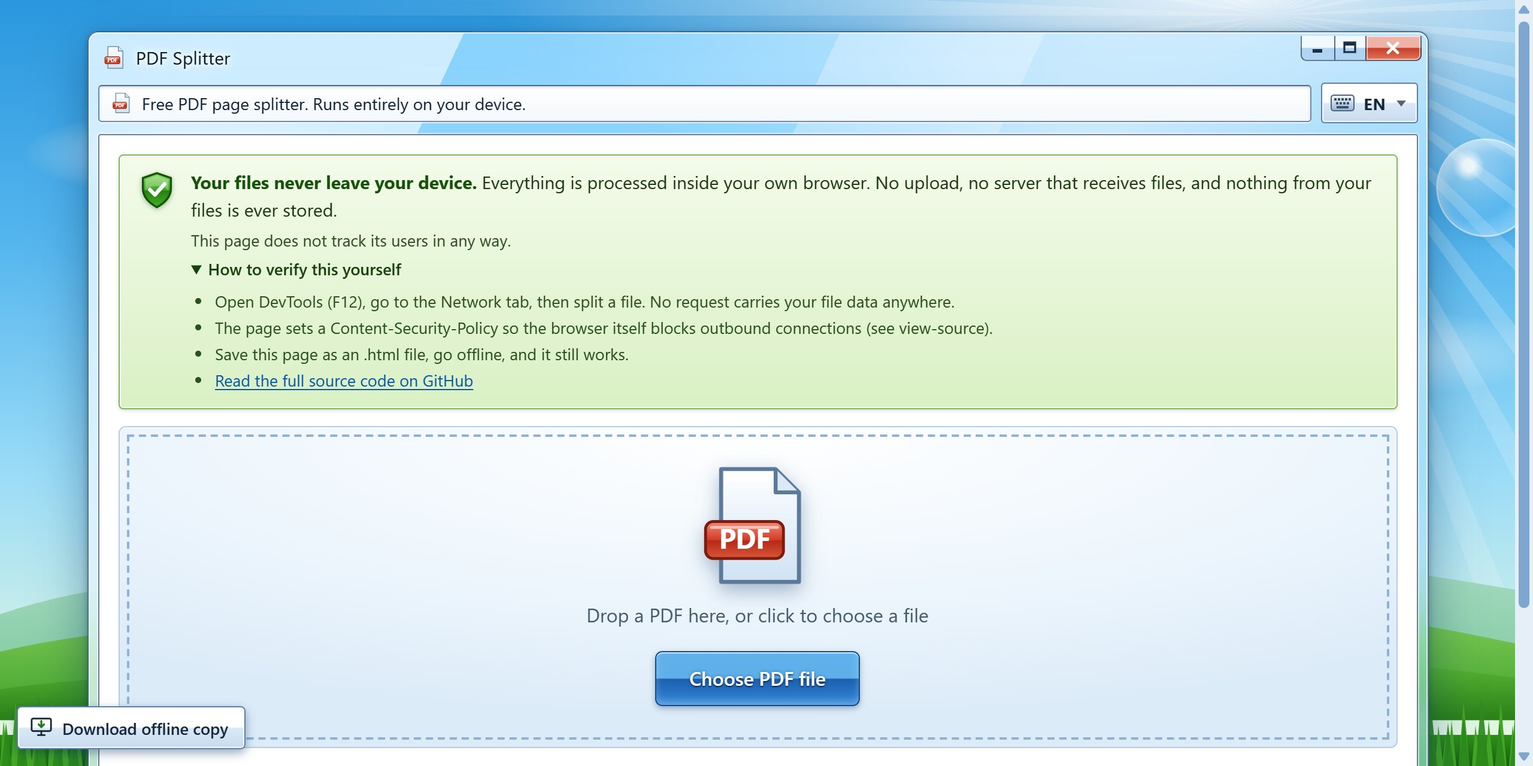
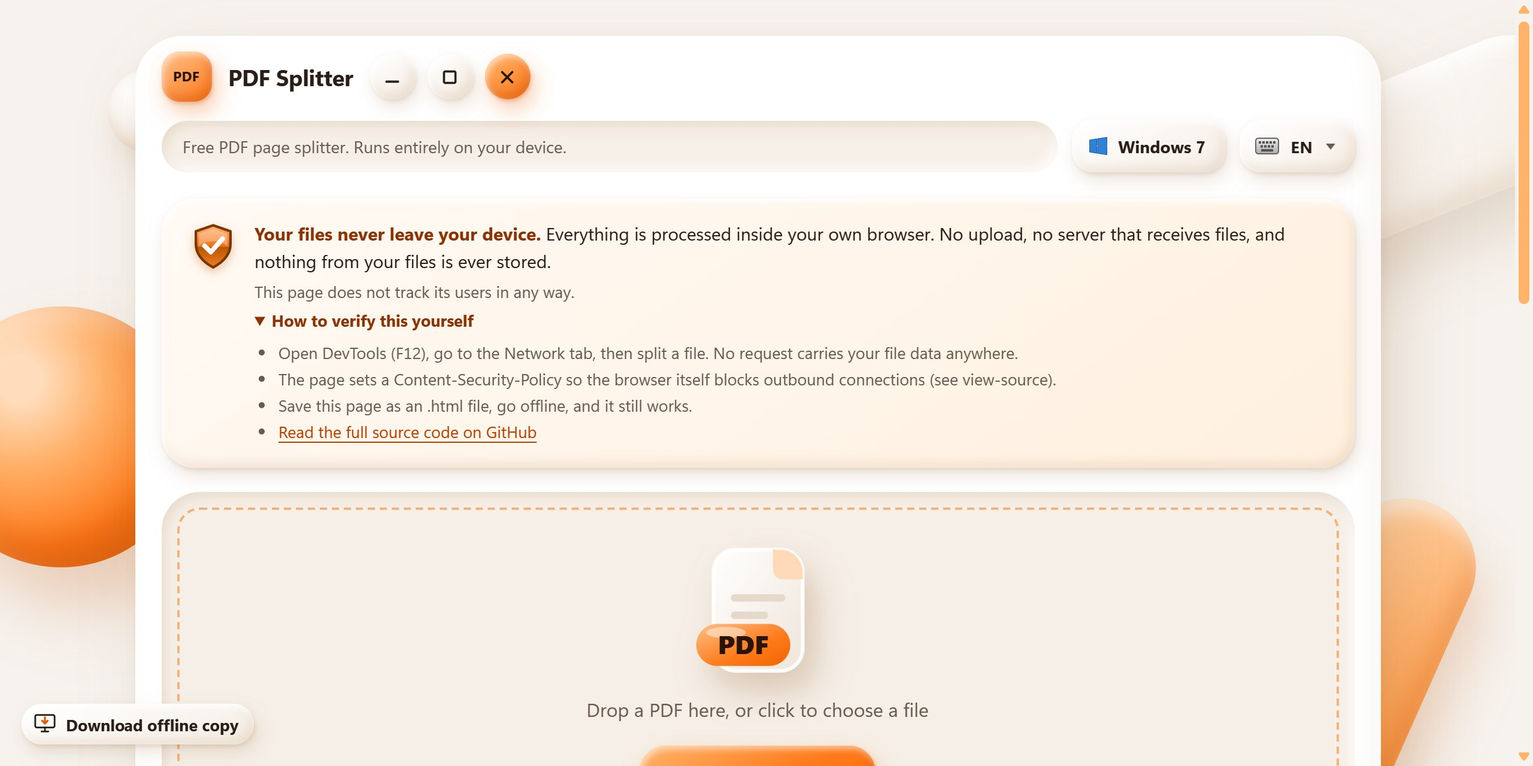
Modern Clay (white + orange claymorphism) as the default look; Windows 7 Aero becomes opt-in via a theme button; language switch keeps the chosen look

diff --git a/template.html b/template.html
@@ -1,10 +1,10 @@
 <!DOCTYPE html>
-<html lang="/*HTMLLANG*/">
+<html lang="/*HTMLLANG*/" data-theme="clay">
 <head>
 <meta charset="utf-8">
 <meta http-equiv="Content-Security-Policy" content="/*CSP*/">
 <meta name="viewport" content="width=device-width, initial-scale=1">
-<meta name="theme-color" content="#3a9be0">
+<meta name="theme-color" content="#f6f2ed">
 <!--HEADTAGS-->
 <style>
   :root {
@@ -390,6 +390,183 @@
   }
 
 
+
+  /* ===================== Theme: Modern Clay (white + orange), opt-in via the Clay button ===================== */
+  .scene-cl { display:none; }
+  .langbar .tb { width:18px; height:18px; flex:none; }
+  html[data-theme="clay"] {
+    --ink:#2a1e16; --ink2:#6a5b50; --edge:rgba(120,80,40,.16);
+    --accent:#ff7a1a; --accent-hi:#ffb36b; --accent-ink:#b84200; --accent-deep:#8a3200;
+    --cream:#fbf6f0; --well:#f6efe7; --line:#f1e8de;
+    --font:ui-rounded,"SF Pro Rounded","Segoe UI Variable Text","Segoe UI","Leelawadee UI","Noto Sans Thai",system-ui,sans-serif;
+    --ease:cubic-bezier(.16,1,.3,1);
+    --sh-raise:inset 2px 3px 5px rgba(255,255,255,.95), inset -3px -5px 9px rgba(190,140,95,.18), 3px 7px 14px rgba(150,105,60,.18), 1px 2px 3px rgba(150,105,60,.14);
+    --sh-raise-hi:inset 2px 3px 5px #fff, inset -3px -5px 9px rgba(190,140,95,.16), 5px 12px 22px rgba(150,105,60,.22), 1px 3px 5px rgba(150,105,60,.14);
+    --sh-press:inset 4px 5px 10px rgba(160,110,65,.28), inset -2px -3px 6px rgba(255,255,255,.85);
+    --sh-well:inset 3px 4px 9px rgba(160,110,65,.17), inset -3px -4px 8px rgba(255,255,255,.95);
+    --sh-orange:inset 2px 3px 5px rgba(255,255,255,.55), inset -3px -5px 9px rgba(185,65,0,.35), 4px 9px 18px rgba(235,100,10,.32), 1px 2px 3px rgba(185,65,0,.25);
+    --sh-orange-hi:inset 2px 3px 5px rgba(255,255,255,.6), inset -3px -5px 9px rgba(185,65,0,.3), 6px 14px 24px rgba(235,100,10,.38), 1px 3px 5px rgba(185,65,0,.25);
+    --sh-orange-press:inset 4px 5px 10px rgba(160,55,0,.45), inset -2px -3px 6px rgba(255,190,130,.4);
+    --sh-card:inset 4px 6px 12px #fff, inset -6px -8px 18px rgba(190,150,110,.10), 16px 26px 56px rgba(150,105,60,.20), 3px 5px 10px rgba(150,105,60,.10);
+    background:#f6f2ed; scrollbar-color:#ffb36b #f6f2ed;
+  }
+  html[data-theme="clay"] body { font-variant-numeric:tabular-nums; }
+  html[data-theme="clay"] ::selection { background:#ff7a1a; color:#2a1408; }
+  html[data-theme="clay"] input { caret-color:#ff7a1a; }
+  html[data-theme="clay"] a { color:var(--accent-ink); text-underline-offset:3px; }
+  html[data-theme="clay"] :is(button,input,summary,.pg):focus-visible { outline:3px solid var(--accent); outline-offset:3px; box-shadow:var(--fs, none); }
+  html[data-theme="clay"] .scene { display:none; }
+
+  /* soft clay props behind the window (static: motion is reserved for state changes) */
+  html[data-theme="clay"] .scene-cl { display:block; position:fixed; inset:0; z-index:-1; overflow:hidden; pointer-events:none; }
+  .scene-cl .cb { position:absolute; display:block; }
+  .scene-cl .cb1 { width:clamp(150px,17vw,250px); aspect-ratio:1; left:calc(-1 * clamp(36px,4.5vw,80px)); top:40%; border-radius:50%;
+    background:radial-gradient(circle at 34% 28%, #ffdcbb 0 9%, #ffb068 34%, #ff7a1a 66%, #e86200 100%);
+    box-shadow:inset -14px -18px 30px rgba(170,60,0,.34), inset 10px 12px 22px rgba(255,255,255,.45), 22px 34px 50px rgba(200,100,30,.26); }
+  .scene-cl .cb2 { width:clamp(200px,24vw,340px); height:clamp(82px,9.5vw,136px); right:calc(-1 * clamp(40px,5vw,90px)); top:10%; border-radius:999px; rotate:-22deg;
+    background:linear-gradient(145deg,#fff,#f3ebe2);
+    box-shadow:inset 8px 10px 16px #fff, inset -10px -12px 22px rgba(190,150,110,.25), 20px 30px 50px rgba(150,105,60,.20); }
+  .scene-cl .cb3 { width:clamp(86px,9vw,132px); height:clamp(190px,21vw,300px); right:5vw; bottom:-6%; border-radius:999px; rotate:24deg;
+    background:linear-gradient(145deg,#ffd2a3,#ffa152 70%,#ff8e33);
+    box-shadow:inset 7px 9px 14px rgba(255,255,255,.55), inset -9px -12px 20px rgba(200,80,0,.28), 18px 28px 44px rgba(200,100,30,.24); }
+  .scene-cl .cb4 { width:clamp(54px,5.5vw,84px); aspect-ratio:1; left:7vw; top:9%; border-radius:50%;
+    background:radial-gradient(circle at 34% 28%, #fff 0 12%, #f6eee5 60%, #eadccd 100%);
+    box-shadow:inset -6px -8px 14px rgba(190,150,110,.28), 10px 16px 26px rgba(150,105,60,.2); }
+  @media (max-width:899px) { .scene-cl .cb2, .scene-cl .cb3 { display:none; } .scene-cl .cb1 { opacity:.9; } }
+
+  /* window */
+  html[data-theme="clay"] .win { max-width:1040px; margin:30px auto 100px; padding:0; border:0; border-radius:40px; background:#fff;
+    -webkit-backdrop-filter:none; backdrop-filter:none; box-shadow:var(--sh-card); }
+  html[data-theme="clay"] .titlebar { height:68px; gap:14px; padding:0 20px 0 22px; border-radius:40px 40px 0 0; }
+  html[data-theme="clay"] .titlebar svg.appico { display:none; }
+  html[data-theme="clay"] .titlebar::before { content:"PDF"; display:grid; place-items:center; width:42px; height:42px; flex:none; border-radius:15px;
+    font-size:11.5px; font-weight:800; letter-spacing:.2px; color:#2a1408; background:linear-gradient(145deg,#ffc089,#ff7a1a); box-shadow:var(--sh-orange); }
+  html[data-theme="clay"] h1 { font-size:19px; font-weight:800; letter-spacing:-.01em; color:var(--ink); text-shadow:none; }
+  html[data-theme="clay"] .caps { align-self:center; margin:0; gap:10px; }
+  html[data-theme="clay"] .caps button { width:38px; height:38px; min-height:0; margin:0; padding:0; border:0; border-radius:50%; color:var(--ink);
+    background:linear-gradient(145deg,#fff,#f4ede5); box-shadow:var(--sh-raise); --fs:var(--sh-raise);
+    transition:transform .18s var(--ease), box-shadow .18s var(--ease); }
+  html[data-theme="clay"] .caps button::after { content:none; }
+  html[data-theme="clay"] .caps .ia, html[data-theme="clay"] .caps .it { display:none; }
+  html[data-theme="clay"] .caps .iu { display:block; width:17px; height:17px; }
+  html[data-theme="clay"] .caps .c3 { color:#2a1408; background:linear-gradient(145deg,#ffb36b,#ff7a1a); box-shadow:var(--sh-orange); --fs:var(--sh-orange); }
+  html[data-theme="clay"] .caps button:hover:not(:disabled) { transform:translateY(-2px); background:linear-gradient(145deg,#fff,#fbf4ec); box-shadow:var(--sh-raise-hi); }
+  html[data-theme="clay"] .caps .c3:hover:not(:disabled) { background:linear-gradient(145deg,#ffc089,#ff8a33); box-shadow:var(--sh-orange-hi); }
+  html[data-theme="clay"] .caps button:active:not(:disabled) { transform:translateY(1px); box-shadow:var(--sh-press); }
+  html[data-theme="clay"] .caps .c3:active:not(:disabled) { box-shadow:var(--sh-orange-press); }
+
+  /* address row: tagline well + the two selector buttons */
+  html[data-theme="clay"] .addr { gap:12px; padding:2px 22px 16px; }
+  html[data-theme="clay"] .abar { padding:11px 18px; border:0; border-radius:22px; background:var(--well); box-shadow:var(--sh-well); }
+  html[data-theme="clay"] .abar svg { display:none; }
+  html[data-theme="clay"] .abar .hint { color:var(--ink2); font-size:14px; }
+  html[data-theme="clay"] .client { background:transparent; border:0; border-radius:0 0 40px 40px; box-shadow:none; }
+
+  /* buttons */
+  html[data-theme="clay"] button { min-height:44px; padding:8px 20px; border:0; border-radius:18px; color:var(--ink); font-weight:600; text-shadow:none;
+    background:linear-gradient(145deg,#fff,#f5eee6); box-shadow:var(--sh-raise); --fs:var(--sh-raise);
+    transition:transform .18s var(--ease), box-shadow .18s var(--ease), background .18s ease; }
+  html[data-theme="clay"] button:hover:not(:disabled) { transform:translateY(-2px); border:0; background:linear-gradient(145deg,#fff,#fbf4ec); box-shadow:var(--sh-raise-hi); }
+  html[data-theme="clay"] button:active:not(:disabled) { transform:translateY(1px); border:0; background:linear-gradient(145deg,#f7f0e8,#f3ebe2); box-shadow:var(--sh-press); }
+  html[data-theme="clay"] button:disabled, html[data-theme="clay"] button.primary:disabled, html[data-theme="clay"] button.alt:disabled {
+    cursor:not-allowed; transform:none; color:#9a8b7e; text-shadow:none; background:#f1ebe4; box-shadow:inset 2px 2px 5px rgba(160,110,65,.12), inset -2px -2px 4px rgba(255,255,255,.8); }
+  html[data-theme="clay"] button.primary { color:#2a1408; font-weight:800; background:linear-gradient(145deg,#ffb36b,#ff7a1a 60%,#ff6d0a); box-shadow:var(--sh-orange); --fs:var(--sh-orange); }
+  html[data-theme="clay"] button.primary:hover:not(:disabled) { background:linear-gradient(145deg,#ffc089,#ff8a33 60%,#ff7a1a); box-shadow:var(--sh-orange-hi); }
+  html[data-theme="clay"] button.primary:active:not(:disabled) { background:linear-gradient(145deg,#ff8a33,#ff6d0a); box-shadow:var(--sh-orange-press); }
+  html[data-theme="clay"] button.alt { color:var(--accent-deep); font-weight:700; background:linear-gradient(145deg,#fff4e8,#ffe0c2); box-shadow:var(--sh-raise); }
+  html[data-theme="clay"] button.alt:hover:not(:disabled) { background:linear-gradient(145deg,#fff8f0,#ffe7cf); box-shadow:var(--sh-raise-hi); }
+  html[data-theme="clay"] button.alt:active:not(:disabled) { background:linear-gradient(145deg,#ffe3c8,#ffd7b0); box-shadow:var(--sh-press); }
+  html[data-theme="clay"] button.big { min-height:56px; padding:12px 36px; border-radius:22px; font-size:17px; }
+  html[data-theme="clay"] .langbar { gap:8px; padding:8px 16px 8px 13px; color:var(--ink); }
+  html[data-theme="clay"] .langbar .kb { filter:grayscale(1) contrast(.9); }
+  html[data-theme="clay"] .langbar .lcode { font-size:13.5px; letter-spacing:.4px; }
+
+  /* privacy notice: warm cream pillow, shield tinted orange */
+  html[data-theme="clay"] .privacy { gap:4px 14px; margin:6px 22px 20px; padding:18px 22px; color:var(--ink); border:0; border-radius:28px;
+    background:linear-gradient(145deg,#fffaf4,#fff0df); box-shadow:var(--sh-raise); }
+  html[data-theme="clay"] .privacy > svg { width:42px; height:42px; filter:hue-rotate(-78deg) saturate(1.2) drop-shadow(0 3px 4px rgba(200,90,0,.35)); }
+  html[data-theme="clay"] .privacy b { color:var(--accent-deep); }
+  html[data-theme="clay"] .privacy .hint, html[data-theme="clay"] .privacy details { color:var(--ink2); }
+  html[data-theme="clay"] .privacy summary { color:var(--accent-deep); font-weight:700; }
+
+  /* drop zone: a pressed-in well with a dashed ring */
+  html[data-theme="clay"] #drop { margin:0 22px 28px; padding:40px 22px 44px; border:0; border-radius:32px; outline:2px dashed #f2b27a; outline-offset:-15px;
+    background:var(--well); box-shadow:var(--sh-well); transition:background .18s ease, outline-color .18s ease; }
+  html[data-theme="clay"] #drop.over { background:#fff1e3; outline-color:var(--accent); box-shadow:var(--sh-well); }
+  html[data-theme="clay"] #drop .big-ico { width:112px; height:112px; filter:hue-rotate(-8deg) saturate(.95) drop-shadow(10px 16px 14px rgba(150,105,60,.3)); }
+  html[data-theme="clay"] #drop p { color:var(--ink2); font-size:16px; }
+
+  /* command bar */
+  html[data-theme="clay"] .tools { background:#fff; border-top:0; border-bottom:1px solid var(--line); box-shadow:0 12px 20px -16px rgba(150,105,60,.45); }
+  html[data-theme="clay"] .bar { gap:10px; padding:14px 22px; }
+  html[data-theme="clay"] .bar + .bar { border-top:1px solid var(--line); }
+  html[data-theme="clay"] .bar b { color:var(--ink); }
+  html[data-theme="clay"] .bar input[type=text] { width:220px; min-height:44px; padding:8px 18px; border:0; border-radius:18px; color:var(--ink); background:var(--well);
+    box-shadow:var(--sh-well); --fs:var(--sh-well); }
+  html[data-theme="clay"] .bar input[type=text]:focus { border:0; box-shadow:var(--sh-well); }
+  html[data-theme="clay"] #msg { color:var(--accent-ink); }
+  html[data-theme="clay"] .hint { color:var(--ink2); }
+  html[data-theme="clay"] .howto { padding:14px 22px 4px; }
+
+  /* thumbnails: soft tiles, selected = orange-ringed and warm */
+  html[data-theme="clay"] #grid { gap:14px; padding:12px 22px 28px; }
+  html[data-theme="clay"] .pg { --pgs:none; --fs:var(--pgs); padding:12px 12px 10px; border:0; border-radius:24px; box-shadow:var(--pgs);
+    transition:transform .18s var(--ease), background .18s ease, box-shadow .18s var(--ease); }
+  html[data-theme="clay"] .pg:hover { --pgs:var(--sh-raise); background:#fffaf5; border:0; transform:translateY(-2px); }
+  html[data-theme="clay"] .pg.sel { --pgs:inset 0 0 0 3px var(--accent), 4px 9px 16px rgba(235,100,10,.22); background:linear-gradient(145deg,#fff5ea,#ffe6cd); border:0; }
+  html[data-theme="clay"] .pg canvas { border:0; border-radius:14px; background:#fff; box-shadow:0 7px 16px rgba(150,105,60,.28), 0 1px 3px rgba(150,105,60,.2); }
+  html[data-theme="clay"] .pg .n { color:var(--ink); margin-top:10px; }
+  html[data-theme="clay"] .pg.sel .n { color:var(--accent-deep); font-weight:700; }
+  html[data-theme="clay"] .pg .ck { top:19px; right:19px; filter:hue-rotate(176deg) saturate(1.15) drop-shadow(0 3px 4px rgba(170,70,0,.4)); }
+  html[data-theme="clay"] .status { margin-top:0; padding:16px 22px; color:var(--ink2); background:var(--cream); border-top:1px solid var(--line); border-radius:0 0 40px 40px; }
+
+  /* offline download button, about section, easter-egg tooltip */
+  html[data-theme="clay"] .dl { left:18px; bottom:18px; color:var(--ink); font-weight:700; border:0; border-radius:20px; background:linear-gradient(145deg,#fff,#f5eee6); box-shadow:var(--sh-raise);
+    transition:transform .18s var(--ease), box-shadow .18s var(--ease); }
+  html[data-theme="clay"] .dl:hover { transform:translateY(-2px); background:linear-gradient(145deg,#fff,#fbf4ec); border:0; box-shadow:var(--sh-raise-hi); }
+  html[data-theme="clay"] .dl:active { transform:translateY(1px); box-shadow:var(--sh-press); }
+  html[data-theme="clay"] .dl svg path:last-child { stroke:#e05a00; }
+  html[data-theme="clay"] .about { max-width:1040px; color:var(--ink); border:0; border-radius:32px; background:#fff; box-shadow:var(--sh-card); }
+  html[data-theme="clay"] .about a { color:var(--accent-ink); }
+  html[data-theme="clay"] .about code { color:var(--accent-deep); border:0; border-radius:8px; background:#fff0df; }
+  html[data-theme="clay"] .about details { border:0; border-radius:20px; background:var(--well); box-shadow:var(--sh-well); }
+  html[data-theme="clay"] .about summary { color:var(--ink); }
+  html[data-theme="clay"] .nojs { color:var(--ink); background:#fff; border:0; border-radius:20px; box-shadow:var(--sh-raise); }
+  html[data-theme="clay"] .oops-tip { color:var(--ink); border:0; border-radius:16px; background:#fff; box-shadow:var(--sh-raise-hi); }
+  html[data-theme="clay"] .oops-tip::before { background:#fff; border:0; }
+  html[data-theme="tui"] .themebtn .tlabel { display:inline; }
+
+  @media (max-width:699px) {
+    html[data-theme="clay"] .win { margin:10px 8px 96px; border-radius:30px; }
+    html[data-theme="clay"] .titlebar { height:60px; padding:0 14px 0 16px; border-radius:30px 30px 0 0; gap:10px; }
+    html[data-theme="clay"] .titlebar::before { width:38px; height:38px; border-radius:13px; font-size:10.5px; }
+    html[data-theme="clay"] h1 { font-size:17px; }
+    html[data-theme="clay"] .caps { gap:7px; }
+    html[data-theme="clay"] .caps button { width:36px; height:36px; }
+    html[data-theme="clay"] .addr { padding:0 14px 14px; flex-wrap:wrap; }
+    html[data-theme="clay"] .abar { flex:1 1 100%; }
+    html[data-theme="clay"] .privacy { margin:4px 14px 16px; padding:14px 16px; border-radius:24px; }
+    html[data-theme="clay"] #drop { margin:0 14px 22px; padding:28px 14px 32px; border-radius:26px; outline-offset:-11px; }
+    html[data-theme="clay"] #drop .big-clay { width:96px; height:96px; }
+    html[data-theme="clay"] .bar { padding:12px 14px; }
+    html[data-theme="clay"] .bar input[type=text] { flex:1 1 100%; width:auto; }
+    html[data-theme="clay"] button { min-height:44px; }
+    html[data-theme="clay"] .howto { padding:10px 14px 4px; }
+    html[data-theme="clay"] #grid { gap:8px; padding:8px 12px 20px; }
+    html[data-theme="clay"] .pg { padding:10px 10px 8px; border-radius:20px; }
+    html[data-theme="clay"] .status { border-radius:0 0 30px 30px; padding:14px 16px; }
+    html[data-theme="clay"] .client { border-radius:0 0 30px 30px; }
+    html[data-theme="clay"] .dl { left:12px; bottom:12px; min-height:44px; }
+    html[data-theme="clay"] .about { margin:0 8px 110px; padding:16px 16px 18px; border-radius:26px; }
+  }
+
+
+  .big-clay { display:none; }
+  html[data-theme="clay"] #drop .big-ico { display:none; }
+  html[data-theme="clay"] #drop .big-clay { display:block; width:124px; height:124px; margin:0 auto; filter:drop-shadow(10px 16px 14px rgba(150,105,60,.3)); }
+  .themebtn[data-to="aero"] .tb-clay, .themebtn[data-to="clay"] .tb-win { display:none; }
+  .themebtn .tlabel { font-weight:700; }
+
   /* ===================== About / FAQ (static, crawler-visible) ===================== */
   .about { max-width:860px; margin:0 auto 110px; padding:20px 24px 22px; color:var(--ink); font-size:14.5px; line-height:1.65;
     border:1px solid rgba(10,40,70,.45); border-radius:7px; background:rgba(255,255,255,.88);
@@ -575,6 +752,7 @@
     <ellipse cx="-58" cy="-92" rx="74" ry="34" fill="#fff" opacity=".2" transform="rotate(-24 -58 -92)"/>
   </g>
 </svg></div>
+<div class="scene-cl" aria-hidden="true"><i class="cb cb1"></i><i class="cb cb2"></i><i class="cb cb3"></i><i class="cb cb4"></i></div>
 <div class="ub-shell" aria-hidden="true">
   <div class="ub-panel">
     <div>Activities</div>
@@ -607,6 +785,7 @@
   </div>
   <div class="addr">
     <div class="abar"><svg aria-hidden="true" focusable="false"><use href="#i-pdf"/></svg><span class="hint" data-i18n="tagline"></span></div>
+    <button id="bTheme" type="button" class="langbar themebtn" data-to="aero"><svg class="tb tb-clay" viewBox="0 0 20 20" aria-hidden="true" focusable="false"><defs><radialGradient id="tbg" cx=".34" cy=".28" r=".8"><stop offset="0" stop-color="#ffdcbb"/><stop offset=".45" stop-color="#ffa152"/><stop offset="1" stop-color="#e86200"/></radialGradient></defs><circle cx="10" cy="10" r="8.5" fill="url(#tbg)" stroke="#b84200" stroke-width="1"/><ellipse cx="7.2" cy="6.4" rx="3" ry="1.8" fill="#fff" opacity=".55" transform="rotate(-28 7.2 6.4)"/></svg><svg class="tb tb-win" viewBox="0 0 20 20" aria-hidden="true" focusable="false"><path d="M2 4.4l6.600-1v6.200H2zM9.400 3.200L18 2v7.600H9.400zM2 10.400h6.600v6.200L2 15.600zM9.400 10.400H18V18l-8.600-1.200z" fill="#2d84d6" stroke="#1c5fb0" stroke-width=".6" stroke-linejoin="round"/></svg><span class="tlabel"></span></button>
     <button id="lang" type="button" class="langbar" title="Language / ภาษา" aria-label="Language / ภาษา"><svg class="kb" viewBox="0 0 20 14" aria-hidden="true" focusable="false"><defs><linearGradient id="kbg" x1="0" y1="0" x2="0" y2="1"><stop offset="0" stop-color="#f7fafd"/><stop offset="1" stop-color="#9db5cf"/></linearGradient></defs><rect x=".5" y=".5" width="19" height="13" rx="2.200" fill="url(#kbg)" stroke="#4a6585"/><g fill="#33506f"><rect x="3" y="3" width="2" height="2"/><rect x="6" y="3" width="2" height="2"/><rect x="9" y="3" width="2" height="2"/><rect x="12" y="3" width="2" height="2"/><rect x="15" y="3" width="2" height="2"/><rect x="4.500" y="6.300" width="2" height="2"/><rect x="7.500" y="6.300" width="2" height="2"/><rect x="10.500" y="6.300" width="2" height="2"/><rect x="13.500" y="6.300" width="2" height="2"/><rect x="5" y="9.600" width="10" height="2"/></g></svg><span class="lcode" id="lcode">EN</span><svg class="dd" viewBox="0 0 8 5" aria-hidden="true" focusable="false"><path d="M0 0h8L4 5z" fill="currentColor"/></svg></button>
   </div>
 
@@ -628,6 +807,7 @@
 
   <div id="drop">
     <svg class="big-ico" aria-hidden="true" focusable="false"><use href="#i-pdf"/></svg>
+    <svg class="big-clay" viewBox="0 0 120 120" aria-hidden="true" focusable="false"><defs><linearGradient id="cg1" x1="0" y1="0" x2="1" y2="1"><stop offset="0" stop-color="#ffffff"/><stop offset="1" stop-color="#efe5da"/></linearGradient><linearGradient id="cg2" x1="0" y1="0" x2="1" y2="1"><stop offset="0" stop-color="#ffc089"/><stop offset=".6" stop-color="#ff7a1a"/><stop offset="1" stop-color="#f06400"/></linearGradient></defs><rect x="24" y="8" width="72" height="98" rx="18" fill="url(#cg1)"/><rect x="24" y="8" width="72" height="98" rx="18" fill="none" stroke="#fff" stroke-width="3" opacity=".9"/><path d="M72 8h6a18 18 0 0 1 18 18v6H80a8 8 0 0 1-8-8z" fill="#ffd9b8"/><rect x="38" y="44" width="44" height="6" rx="3" fill="#e6d9cb"/><rect x="38" y="58" width="30" height="6" rx="3" fill="#e6d9cb"/><rect x="10" y="68" width="76" height="34" rx="17" fill="url(#cg2)"/><ellipse cx="34" cy="75" rx="16" ry="4.500" fill="#fff" opacity=".45"/><text x="48" y="92.500" text-anchor="middle" font-family="Segoe UI,Arial,sans-serif" font-size="21" font-weight="800" fill="#2a1408">PDF</text></svg>
     <pre class="ascii" aria-hidden="true">+----------+
 | %PDF-1.7 |
 | ######## |
@@ -694,7 +874,8 @@
       close: 'ปิด',
       dl: 'ดาวน์โหลดไปใช้ออฟไลน์',
       dl_tip: 'ไฟล์เดียว ไม่มีโค้ดนับผู้เข้าชม และบล็อกการเชื่อมต่อเน็ตทุกชนิด เปิดใช้ได้แม้ไม่ต่ออินเทอร์เน็ต',
-      m_tui: 'โหมดเทอร์มินัล (TUI)', m_ub: 'โหมด Ubuntu', m_back: 'กลับเป็นหน้าตา Windows 7',
+      clay_btn: 'Clay', m_clay: 'เปลี่ยนเป็นหน้าตา Clay (ขาวส้ม)', win_btn: 'Windows 7', m_win: 'เปลี่ยนเป็นหน้าตา Windows 7',
+      m_tui: 'โหมดเทอร์มินัล (TUI)', m_ub: 'โหมด Ubuntu', m_back: 'กลับหน้าตาเริ่มต้น (Clay)',
       priv_head: 'ไฟล์ของคุณไม่ออกจากเครื่อง',
       priv_body: 'ทุกอย่างประมวลผลในเบราว์เซอร์ของคุณเท่านั้น ไม่มีการอัปโหลด ไม่มีเซิร์ฟเวอร์รับไฟล์ และไม่เก็บข้อมูลจากไฟล์ของคุณเด็ดขาด',
       priv_counter: 'สิ่งเดียวที่นับคือจำนวนผู้เข้าชมหน้านี้แบบไม่ระบุตัวตน (GoatCounter: ไม่ใช้ cookie ไม่เก็บ IP เต็ม ไม่เห็นชื่อไฟล์หรือเนื้อหาไฟล์) และจะไม่นับถ้าเบราว์เซอร์ของคุณเปิด Do Not Track',
@@ -722,7 +903,8 @@
       close: 'Close',
       dl: 'Download offline copy',
       dl_tip: 'One file, no visit counter, every network connection blocked. Works with the internet switched off.',
-      m_tui: 'Terminal mode (TUI)', m_ub: 'Ubuntu mode', m_back: 'Back to the Windows 7 look',
+      clay_btn: 'Clay', m_clay: 'Switch to the Clay look (white and orange)', win_btn: 'Windows 7', m_win: 'Switch to the Windows 7 look',
+      m_tui: 'Terminal mode (TUI)', m_ub: 'Ubuntu mode', m_back: 'Back to the default Clay look',
       priv_head: 'Your files never leave your device.',
       priv_body: 'Everything is processed inside your own browser. No upload, no server that receives files, and nothing from your files is ever stored.',
       priv_counter: 'The only thing counted is the number of visitors to this page, anonymously (GoatCounter: no cookies, no full IP stored, it never sees file names or contents). Nothing is counted if your browser sends Do Not Track.',
@@ -768,18 +950,26 @@
     refresh(false);
   }
   $('lang').onclick = () => {
-    if (FIXED_LANG && SIBLING) { location.href = SIBLING + location.search.replace(/([?&])lang=[^&]*&?/, '$1').replace(/[?&]$/, '') + location.hash; return; }
+    if (FIXED_LANG && SIBLING) {
+      // /th/ and /en/ are separate pages: carry the chosen look over so switching language does not reset it
+      const p = new URLSearchParams(location.search); p.delete('lang'); p.delete('theme');
+      if (theme !== 'clay') p.set('theme', theme);
+      const q = p.toString(); location.href = SIBLING + (q ? '?' + q : '') + location.hash; return;
+    }
     lang = lang === 'th' ? 'en' : 'th'; applyLang();
   };
 
   // ---------- Themes: minimize = terminal (TUI), maximize = Ubuntu, press again to go back ----------
-  const themeColor = { aero: '#3a9be0', ubuntu: '#300a24', tui: '#000000' };
-  let theme = 'aero', clockTimer = 0;
+  const themeColor = { clay: '#f6f2ed', aero: '#3a9be0', ubuntu: '#300a24', tui: '#000000' };
+  let theme = 'clay', clockTimer = 0;
   function labelCaps() {
     const a = $('bMin'), b = $('bMax');
     const la = t(theme === 'tui' ? 'm_back' : 'm_tui'), lb = t(theme === 'ubuntu' ? 'm_back' : 'm_ub');
     a.title = la; a.setAttribute('aria-label', la); b.title = lb; b.setAttribute('aria-label', lb);
     a.setAttribute('aria-pressed', String(theme === 'tui')); b.setAttribute('aria-pressed', String(theme === 'ubuntu'));
+    const c = $('bTheme'), toAero = theme === 'clay', lc = t(toAero ? 'm_win' : 'm_clay');
+    c.title = lc; c.setAttribute('aria-label', lc); c.dataset.to = toAero ? 'aero' : 'clay';
+    c.querySelector('.tlabel').textContent = t(toAero ? 'win_btn' : 'clay_btn');
   }
   function tickClock() {
     clearTimeout(clockTimer);
@@ -789,13 +979,15 @@
     clockTimer = setTimeout(tickClock, 20000);
   }
   function setTheme(n) {
-    theme = themeColor[n] ? n : 'aero';
-    if (theme === 'aero') document.documentElement.removeAttribute('data-theme'); else document.documentElement.dataset.theme = theme;
+    theme = themeColor[n] ? n : 'clay';
+    document.documentElement.dataset.theme = theme;
     document.querySelector('meta[name="theme-color"]').setAttribute('content', themeColor[theme]);
     labelCaps(); tickClock();
   }
-  $('bMin').onclick = () => setTheme(theme === 'tui' ? 'aero' : 'tui');
-  $('bMax').onclick = () => setTheme(theme === 'ubuntu' ? 'aero' : 'ubuntu');
+  // Clay is the default look. The caption buttons toggle TUI / Ubuntu on and back to Clay; the theme button flips Clay <-> Windows 7.
+  $('bMin').onclick = () => setTheme(theme === 'tui' ? 'clay' : 'tui');
+  $('bMax').onclick = () => setTheme(theme === 'ubuntu' ? 'clay' : 'ubuntu');
+  $('bTheme').onclick = () => setTheme(theme === 'clay' ? 'aero' : 'clay');
   setTheme(new URLSearchParams(location.search).get('theme'));
 
 

diff --git a/README.md b/README.md
@@ -15,7 +15,7 @@
 
 <br>
 
-<img src="docs/screenshots/desktop-en-select.jpg" alt="PDF Splitter: a Windows 7 Frutiger Aero window showing page thumbnails with five pages selected" width="900">
+<img src="docs/screenshots/desktop-en-select.jpg" alt="PDF Splitter in the default Modern Clay look: page thumbnails with five pages selected, orange accent" width="900">
 
 </div>
 
@@ -36,7 +36,7 @@ PDF Splitter does the whole job inside your browser tab. There is no upload step
 | **Quick selectors** | Select all, clear, invert, odd pages, even pages. |
 | **Thai and English** | Auto-detected from the browser, one-click toggle, or force it with `?lang=th` / `?lang=en`. |
 | **Offline copy** | The **Download offline copy** button (bottom-left) gives you one self-contained HTML file with no visit counter and every network connection blocked. Keep it on your desktop and use it with the internet off. |
-| **Three looks** | Windows 7 Frutiger Aero by default. The window's minimize button switches to a green-on-black terminal (TUI) look, the maximize button to an Ubuntu 22.04 "Jammy Jellyfish" desktop. Press it again to go back. Same features in all three. |
+| **Four looks** | **Modern Clay** (soft white surfaces, orange accent, inflated clay shadows) is the default. The theme button next to the language button switches to **Windows 7 Frutiger Aero**. The window's minimize button switches to a green-on-black terminal (TUI) look, the maximize button to an Ubuntu 22.04 "Jammy Jellyfish" desktop. Press it again to return to Clay. Same features in all four. |
 | **Keyboard friendly** | Thumbnails are focusable checkboxes: `Tab` to move, `Space` or `Enter` to toggle. |
 | **Responsive** | Desktop and phone layouts. |
 
@@ -51,14 +51,22 @@ PDF Splitter does the whole job inside your browser tab. There is no upload step
     <td align="center"><sub>Start screen: drop a PDF or choose a file</sub></td>
     <td align="center"><sub>Thai interface (auto-detected)</sub></td>
   </tr>
+</table>
+
+<table>
   <tr>
-    <td width="50%"><img src="docs/screenshots/desktop-ubuntu-select.jpg" alt="Ubuntu 22.04 look with a jellyfish wallpaper"></td>
-    <td width="50%"><img src="docs/screenshots/desktop-tui-select.jpg" alt="Green-on-black terminal look"></td>
+    <td width="33%"><img src="docs/screenshots/desktop-aero-select.jpg" alt="Windows 7 Frutiger Aero look"></td>
+    <td width="33%"><img src="docs/screenshots/desktop-ubuntu-select.jpg" alt="Ubuntu 22.04 look with a jellyfish wallpaper"></td>
+    <td width="33%"><img src="docs/screenshots/desktop-tui-select.jpg" alt="Green-on-black terminal look"></td>
   </tr>
   <tr>
+    <td align="center"><sub>Theme button: Windows 7 Frutiger Aero</sub></td>
     <td align="center"><sub>Maximize button: Ubuntu 22.04 look</sub></td>
     <td align="center"><sub>Minimize button: terminal (TUI) look</sub></td>
   </tr>
+</table>
+
+<table>
   <tr>
     <td width="50%"><img src="docs/screenshots/desktop-en-privacy.jpg" alt="Privacy notice with the how-to-verify list expanded"></td>
     <td width="50%" align="center"><img src="docs/screenshots/mobile-en-select.jpg" alt="Phone layout" width="240"></td>
@@ -138,7 +146,7 @@ pdf-splitter/
 ├── docs/screenshots/      images used in this README
 ├── .github/workflows/     GitHub Pages deployment
 ├── PRODUCT.md             who it is for and what must stay true
-└── DESIGN.md              the Windows 7 Frutiger Aero visual system
+└── DESIGN.md              the original Windows 7 Frutiger Aero visual system (now the opt-in look; Modern Clay is the default)
 ```
 
 ## Known limits
@@ -149,6 +157,6 @@ pdf-splitter/
 
 ## Credits and license
 
-Built with [pdf-lib](https://github.com/Hopding/pdf-lib) (MIT) and [PDF.js](https://github.com/mozilla/pdf.js) (Apache-2.0). The look is inspired by Windows 7 and Frutiger Aero; all artwork is drawn in inline SVG and CSS.
+Built with [pdf-lib](https://github.com/Hopding/pdf-lib) (MIT) and [PDF.js](https://github.com/mozilla/pdf.js) (Apache-2.0). The default look is a white-and-orange claymorphism style, with Windows 7 Frutiger Aero, Ubuntu 22.04 and a terminal look as alternatives; all artwork is drawn in inline SVG and CSS.
 
 Released under the [MIT License](LICENSE). Provided as is, without warranty.

diff --git a/PRODUCT.md b/PRODUCT.md
@@ -37,7 +37,7 @@ Runs from GitHub Pages or a saved `.html` file, offline-capable. Optional anonym
 
 ## Brand Commitments
 
-Visual world is pinned by the owner: Windows 7 / Frutiger Aero, full commitment (glass, gel buttons, sky, bubbles, grass). Existing copy, buttons, functions and the privacy box stay.
+Four looks share one DOM and one set of functions. The owner pinned **Modern Clay as the default**: claymorphism on white surfaces with an orange accent, soft inflated shadows, big radii. Windows 7 / Frutiger Aero (glass, gel buttons, sky, bubbles, grass), Ubuntu 22.04 and a green-on-black terminal look stay as opt-in themes at full commitment. Existing copy, buttons, functions and the privacy box stay in every look. The offline copy opens in Clay too.
 
 ## Evidence on Hand
 
